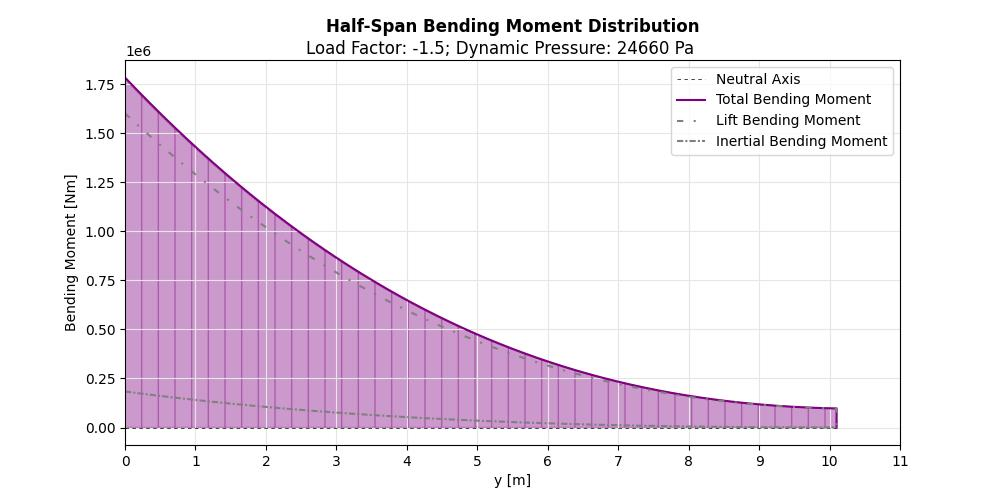
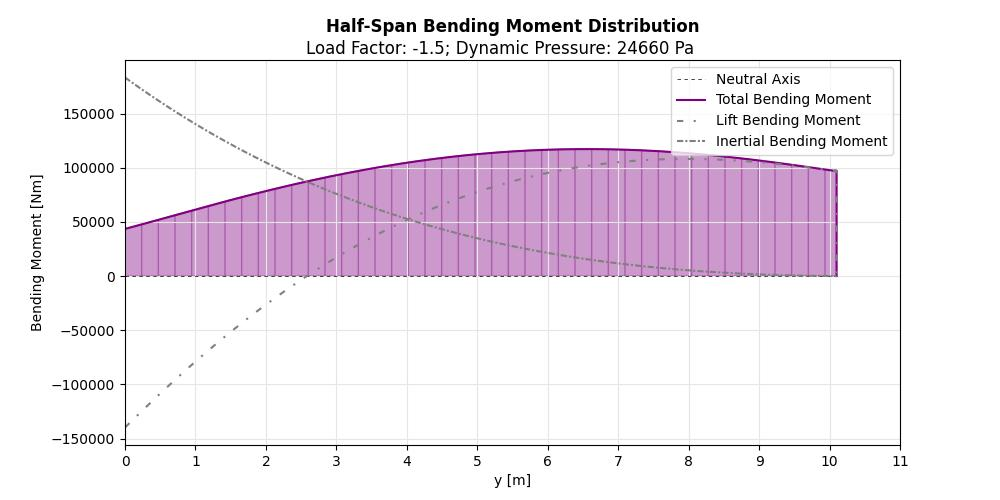
Various

Changed region(s): [[0.031, 0.15, 0.837, 0.9], [0.248, 0.3, 0.279, 0.33], [0.124, 0.09, 0.155, 0.12]]

diff --git a/main.py b/main.py
@@ -12,8 +12,9 @@ from aerodynamic_dist import * #Import interpolated continuous distributions fro
 # Constants
 
 sf=1.5 # Safety Factor
-nload=1.5*(0) # Load Factor
-CL = 2
+nload=sf*(0) # Load Factor
+CL = sf*0
+
 # Aerodynamic Loading
 
 y=np.linspace(0,10.1,sample)

diff --git a/variables.py b/variables.py
@@ -47,6 +47,6 @@ fuel_density = 807.5
 
 # Load Specific
 
-q=38529.56
+q=38529.56074
 sample=400
 
